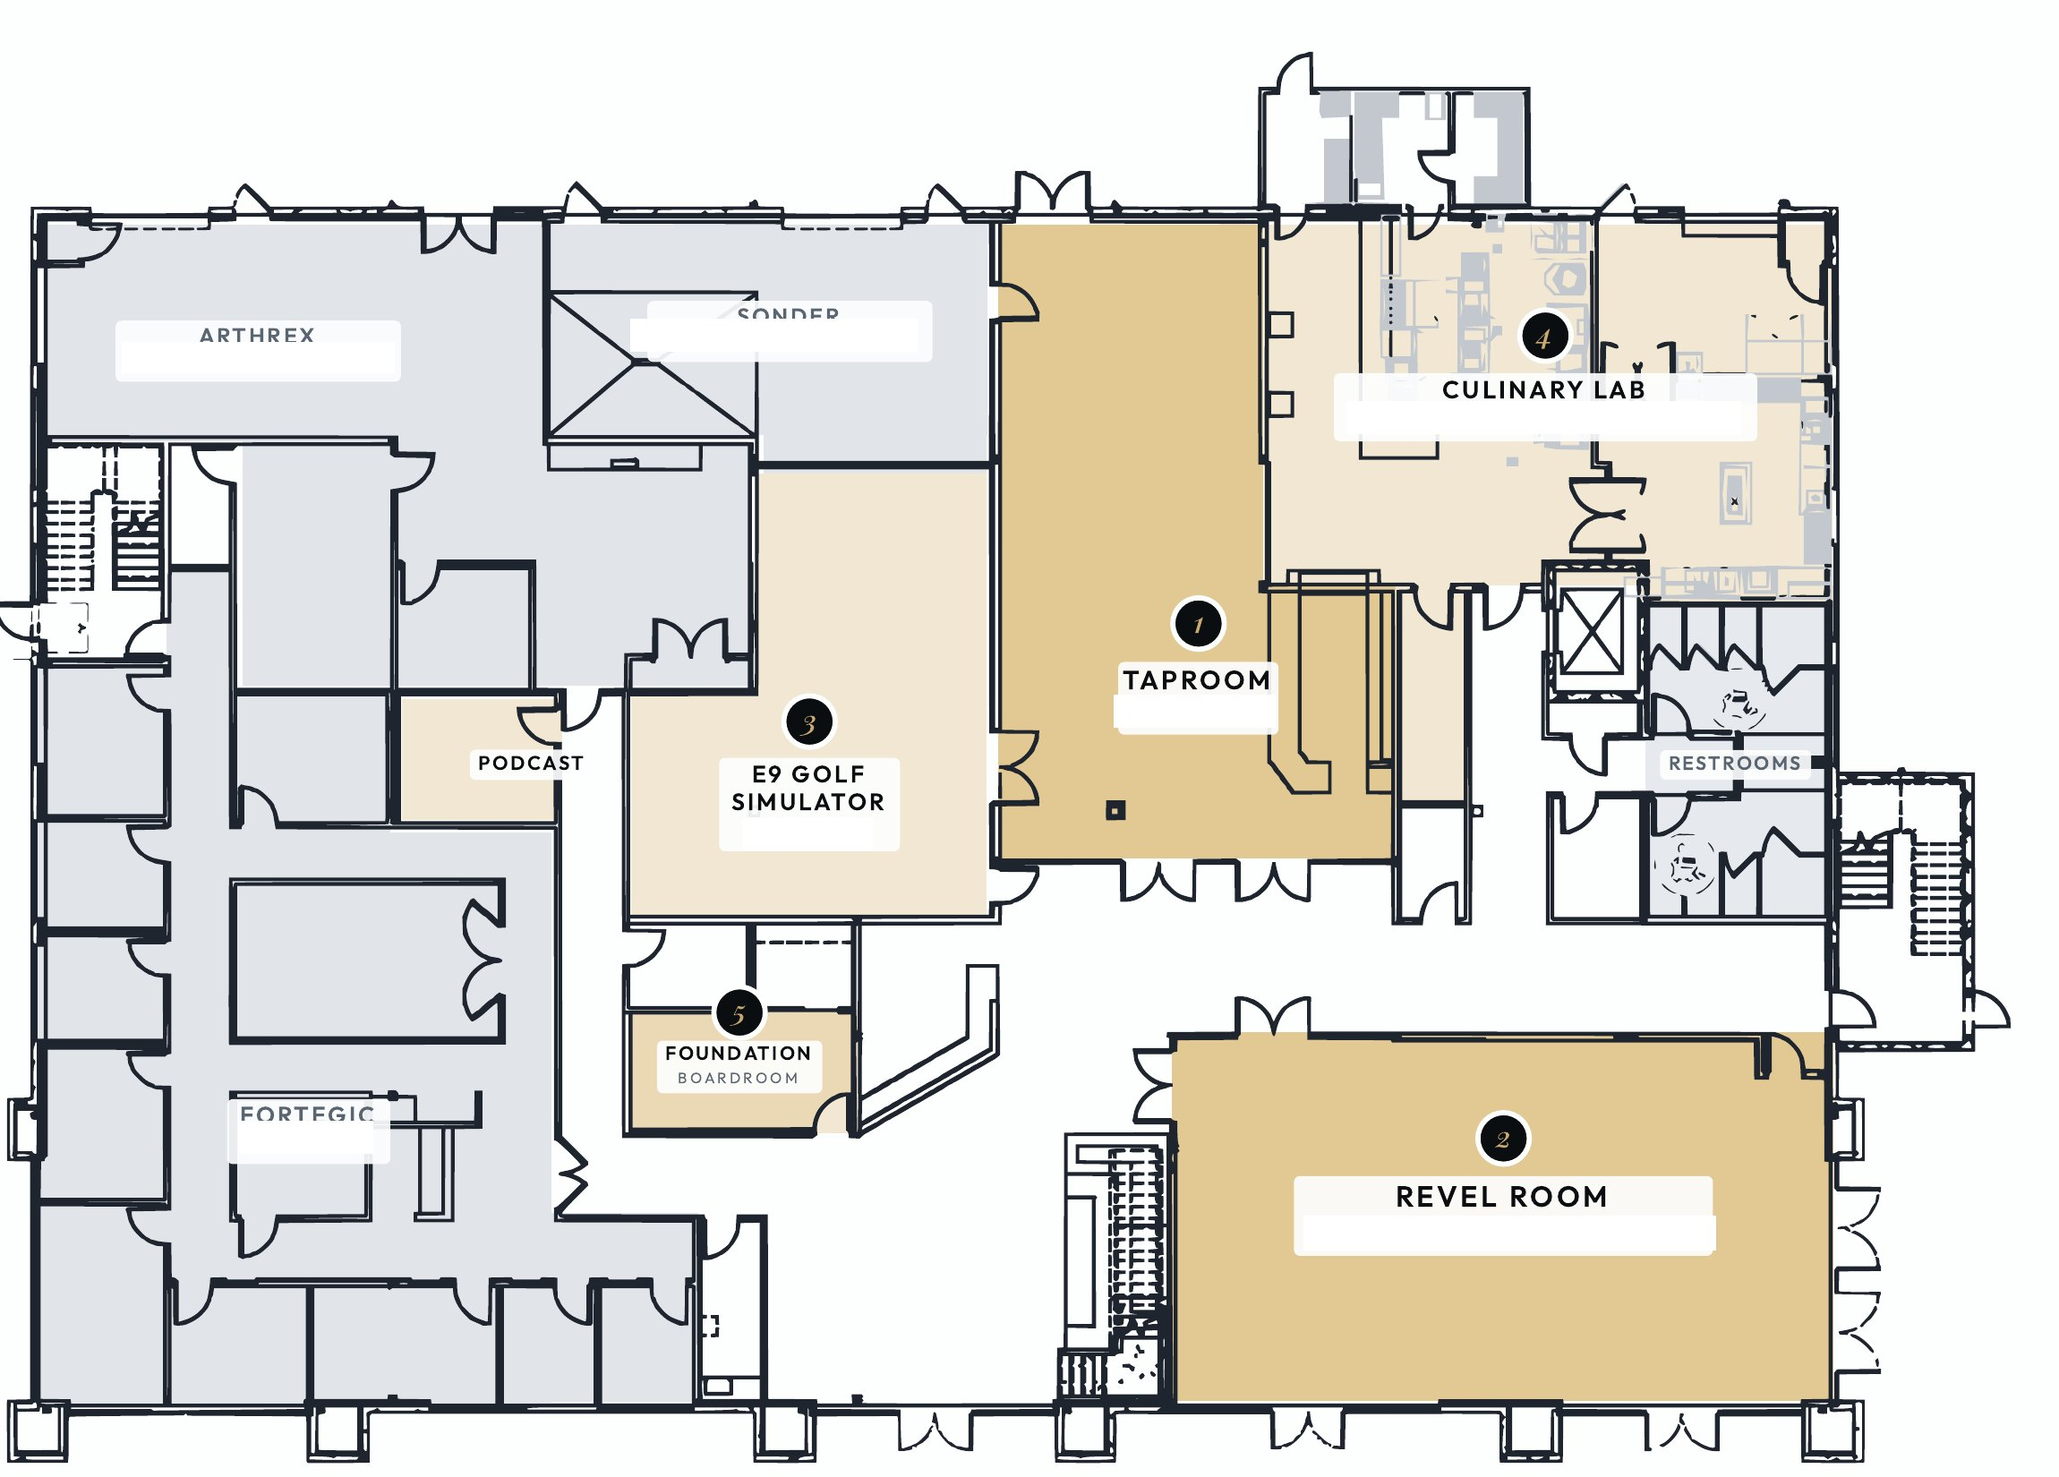
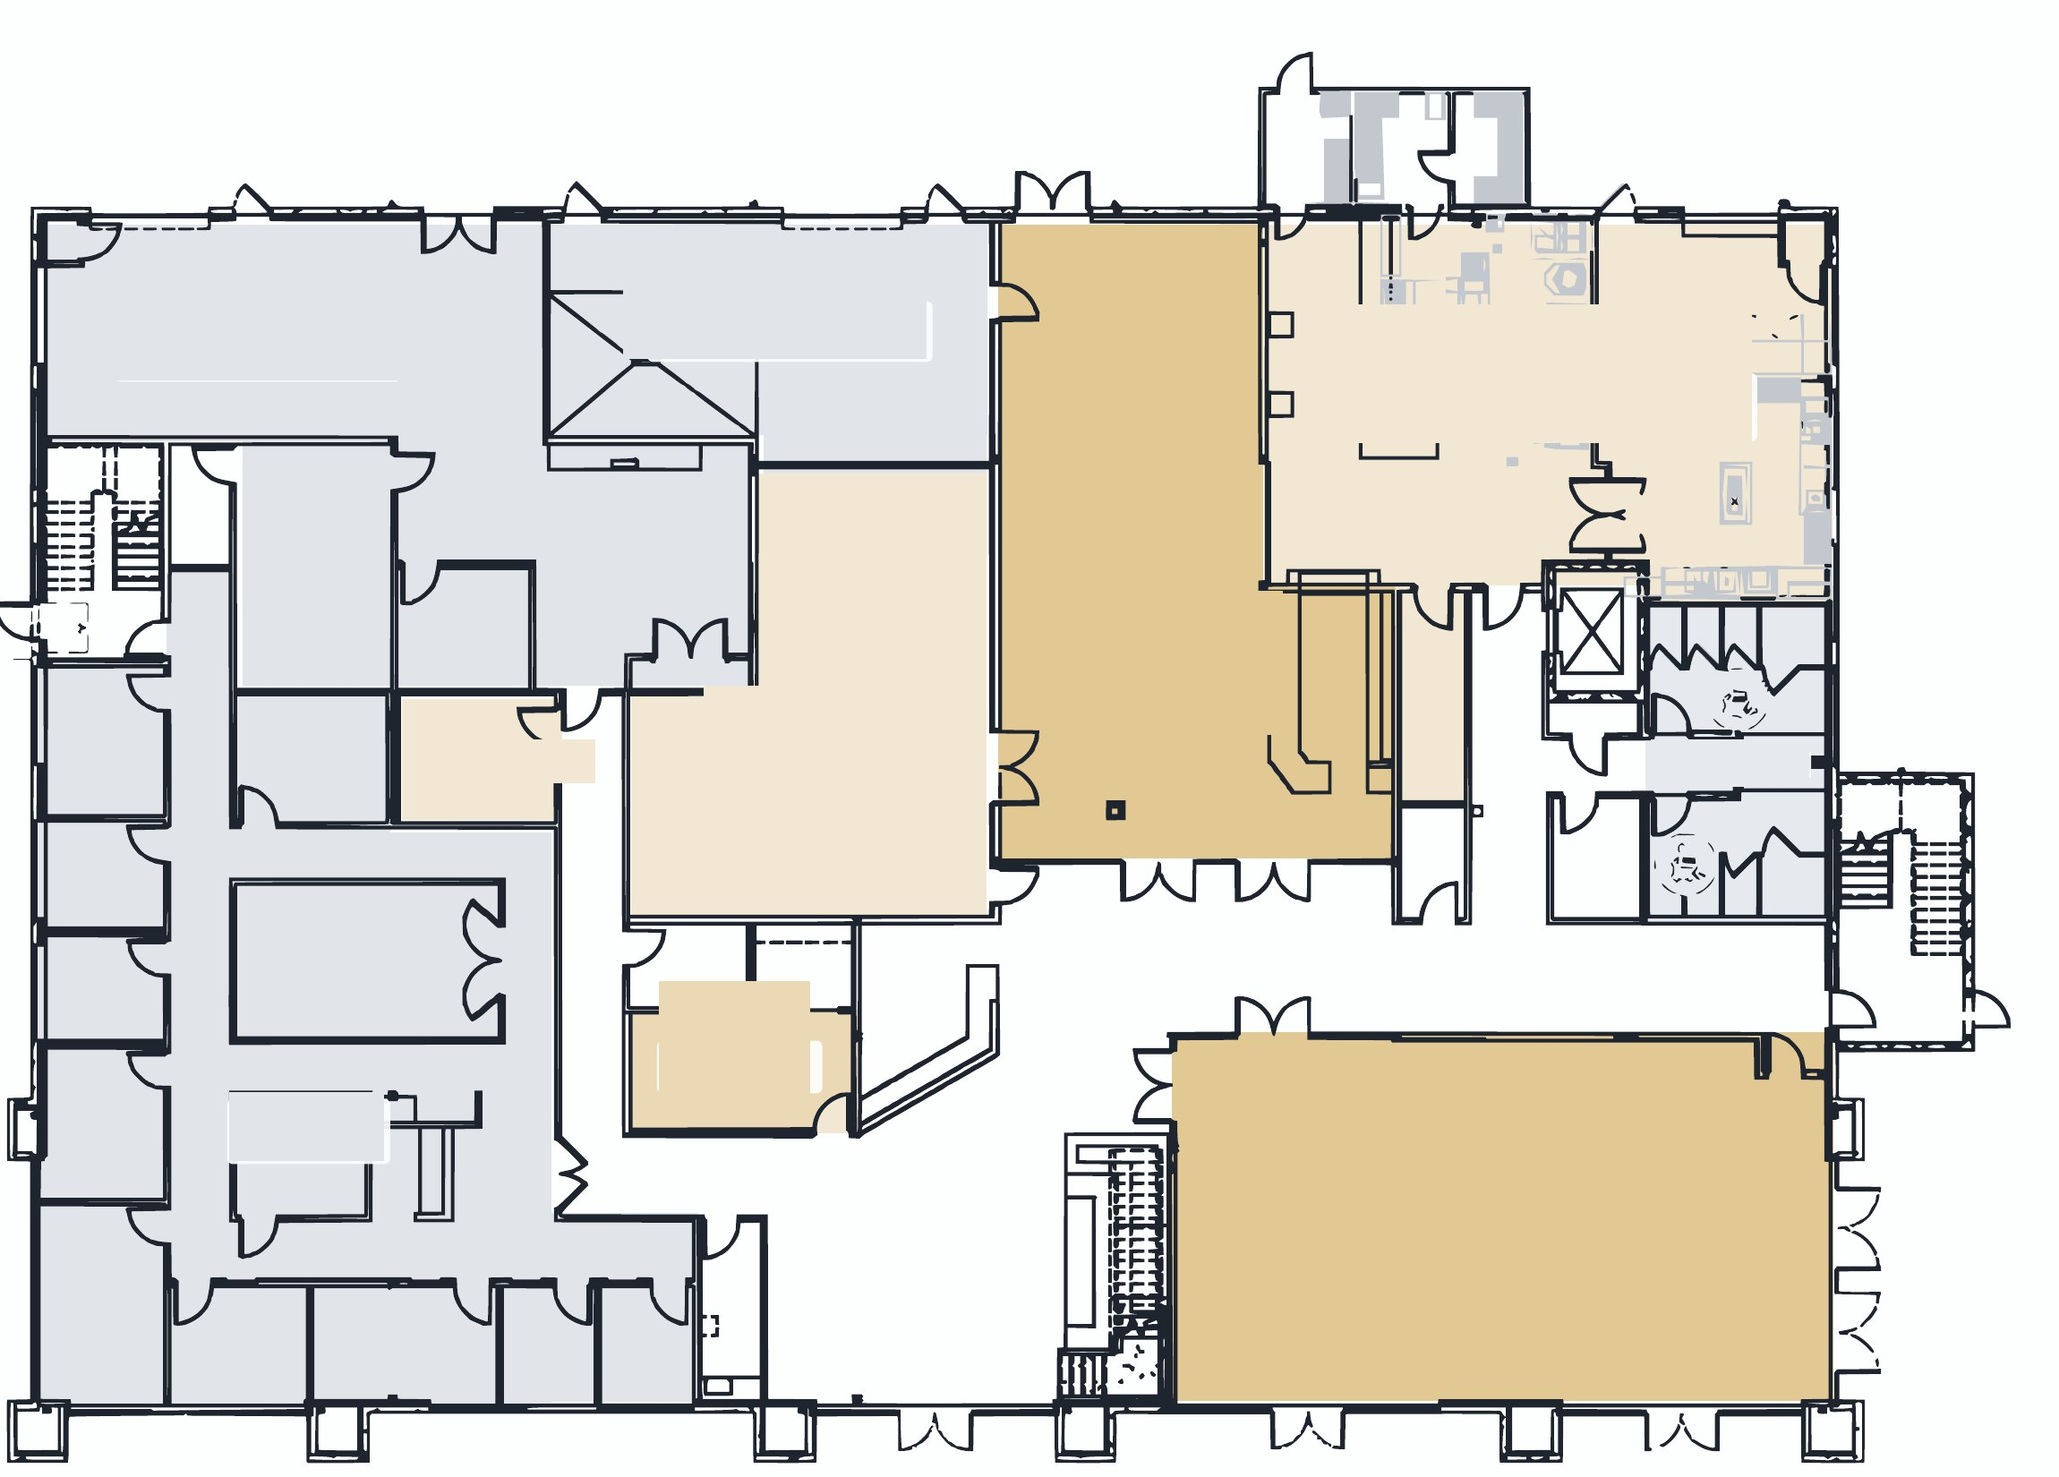
Explore page: clean plans with typographic labels (bundle rev 6)
Claude-Session: https://claude.ai/code/session_01WQH7hqD1qt1mryuk6DfRhT

diff --git a/explore/index.html b/explore/index.html
@@ -162,6 +162,9 @@ html{font-size:17px.footer .container{max-width:1600px;padding:0 48px}.footer-gr
 .xp-map svg{display:block;width:100%;height:auto}
 .xp-map svg[hidden]{display:none!important}
 .xp-hint{position:absolute;top:20px;left:22px;font-size:.68rem;letter-spacing:.14em;text-transform:uppercase;color:#8a93a0;background:rgba(255,255,255,.88);padding:5px 10px;border-radius:6px;pointer-events:none}
+.xp-lab{pointer-events:none;font-family:'Outfit',sans-serif;text-transform:uppercase}
+.xp-lab text{text-anchor:middle;font-weight:600;letter-spacing:.18em;fill:#2A3240}
+.xp-lab text.aux{fill:#8A939E;font-weight:500}
 .xp-room{fill:rgba(201,169,110,0);stroke:rgba(176,140,74,0);stroke-width:5;cursor:pointer;transition:fill .18s,stroke .18s}
 .xp-room:hover{fill:rgba(201,169,110,.32);stroke:rgba(176,140,74,.9)}
 .xp-room.sel{fill:rgba(201,169,110,.42);stroke:#B08C4A;stroke-width:6}
@@ -171,9 +174,10 @@ html{font-size:17px.footer .container{max-width:1600px;padding:0 48px}.footer-gr
 .xp-media img,.xp-media video{display:block;width:100%;height:100%;object-fit:cover;max-width:100%}
 .xp-card .xp-suite{font-size:.75rem;letter-spacing:.18em;text-transform:uppercase;color:var(--gold-dark,#B08C4A);font-weight:600;margin:20px 24px 8px}
 .xp-card h3{font-family:'Playfair Display',serif;font-size:1.8rem;font-weight:600;margin:0 24px 14px}
-.xp-chips{display:flex;flex-wrap:wrap;gap:8px;margin:0 24px 16px}
-.xp-chip{font-size:.88rem;font-weight:500;padding:7px 13px;border-radius:999px;border:1px solid var(--cloud,#E8EAED);color:var(--charcoal,#151A20)}
-.xp-chip.k{border-color:var(--gold,#C9A96E);background:rgba(201,169,110,.12);color:var(--gold-dark,#B08C4A);font-weight:600}
+.xp-details{margin:0 24px 18px;border-top:1px solid var(--cloud,#E8EAED)}
+.xp-row{display:grid;grid-template-columns:96px 1fr;gap:14px;padding:10px 0;border-bottom:1px solid var(--cloud,#E8EAED)}
+.xp-row dt{font-size:.68rem;letter-spacing:.14em;text-transform:uppercase;color:var(--gold-dark,#B08C4A);font-weight:700;margin:0;padding-top:2px}
+.xp-row dd{font-size:.95rem;color:var(--charcoal,#151A20);margin:0;line-height:1.5}
 .xp-desc{color:var(--ash,#5A6572);line-height:1.7;margin:0 24px 20px;font-size:1.02rem}
 .xp-card .btn{margin:0 24px}
 @media(max-width:768px){.xp-fbtn{font-size:16px}}
@@ -231,9 +235,22 @@ html{font-size:17px.footer .container{max-width:1600px;padding:0 48px}.footer-gr
       <image href="../images/map-floor1.webp" width="2300" height="1650"/>
         <polygon class="xp-room" data-id="taproom" points="1096,236 1400,236 1400,630 1576,630 1576,956 1096,956"><title>The Taproom</title></polygon>
         <polygon class="xp-room" data-id="culinary" points="1410,224 2036,224 2036,680 1720,680 1720,624 1410,624"><title>Culinary Lab</title></polygon>
-        <polygon class="xp-room" data-id="e9" points="696,520 1106,520 1106,1024 696,1024"><title>Emergency 9</title></polygon>
+        <polygon class="xp-room" data-id="e9" points="696,670 1106,670 1106,1024 696,1024"><title>Emergency 9</title></polygon>
         <polygon class="xp-room" data-id="foundation" points="696,1040 956,1040 956,1280 696,1280"><title>Foundation Boardroom</title></polygon>
         <polygon class="xp-room" data-id="revel" points="1310,1156 2040,1156 2040,1576 1310,1576"><title>Revel Room</title></polygon>
+    <g class="xp-lab" aria-hidden="true">
+<text x="1330" y="780" font-size="34">The Taproom</text>
+<text x="1676" y="1372" font-size="34">Revel Room</text>
+<text x="900" y="880" font-size="32">E9 Golf Simulator</text>
+<text x="1724" y="442" font-size="32">Culinary Lab</text>
+<text x="826" y="1156" font-size="25">Foundation</text>
+<text x="826" y="1196" font-size="19">Boardroom</text>
+<text x="286" y="392" font-size="23" class="aux">Arthrex</text>
+<text x="880" y="364" font-size="23" class="aux">Sonder</text>
+<text x="340" y="1262" font-size="23" class="aux">Fortegic</text>
+<text x="592" y="854" font-size="17" class="aux">Podcast</text>
+<text x="1932" y="856" font-size="17" class="aux">Restrooms</text>
+</g>
     </svg>
     <svg id="xpSvg2" viewBox="0 0 2300 1500" role="img" aria-label="Second floor plan of Revelance" hidden>
       <image href="../images/map-floor2.webp" width="2300" height="1500"/>
@@ -242,13 +259,26 @@ html{font-size:17px.footer .container{max-width:1600px;padding:0 48px}.footer-gr
         <polygon class="xp-room" data-id="horizon" points="456,864 664,864 664,1036 456,1036"><title>Horizon Boardroom</title></polygon>
         <polygon class="xp-room" data-id="overlook" points="1016,486 1226,486 1226,676 1016,676"><title>Overlook Boardroom</title></polygon>
         <polygon class="xp-room" data-id="csuite" points="1430,490 1660,490 1660,860 1430,860"><title>C-Suite Lounge</title></polygon>
+    <g class="xp-lab" aria-hidden="true">
+<text x="510" y="1186" font-size="34">Co-Revel</text>
+<text x="1546" y="662" font-size="26">C-Suite</text>
+<text x="1546" y="700" font-size="19">Lounge</text>
+<text x="170" y="186" font-size="22">Cornerstone</text>
+<text x="170" y="222" font-size="17">Boardroom</text>
+<text x="560" y="940" font-size="22">Horizon</text>
+<text x="560" y="974" font-size="17">Boardroom</text>
+<text x="1120" y="576" font-size="22">Overlook</text>
+<text x="1120" y="610" font-size="17">Boardroom</text>
+<text x="1484" y="306" font-size="23" class="aux">Arthrex</text>
+<text x="1986" y="684" font-size="17" class="aux">Restrooms</text>
+</g>
     </svg>
   </div>
   <aside class="xp-card" aria-live="polite">
     <div class="xp-media"><img id="xpPhoto" src="../images/revel-banquet-sunset.webp" alt="Banquet setup in the Revel Room at sunset" width="640" height="400"></div>
     <p class="xp-suite" id="xpSuite">Event Center</p>
     <h3 id="xpName">Revel Room</h3>
-    <div class="xp-chips" id="xpChips"></div>
+    <dl class="xp-details" id="xpDetails"><div class="xp-row"><dt>Capacity</dt><dd>125 banquet · 225 reception</dd></div><div class="xp-row"><dt>Features</dt><dd>25-ft ceilings · 12×10 ft video wall</dd></div><div class="xp-row"><dt>Best for</dt><dd>Weddings, galas, corporate events</dd></div><div class="xp-row"><dt>Booking</dt><dd>Start with the event wizard</dd></div></dl>
     <p class="xp-desc" id="xpDesc"></p>
     <a class="btn btn-gold" id="xpLink" href="../revel-room/">Explore the Space</a>
   </aside>
@@ -266,7 +296,7 @@ html{font-size:17px.footer .container{max-width:1600px;padding:0 48px}.footer-gr
 </section>
 
 <script>
-var XP_ROOMS = {"revel": {"floor": 1, "name": "Revel Room", "label": "Event Center", "stats": ["125 banquet", "225 combined reception", "25-ft ceilings", "12x10 ft video wall"], "desc": "The event center. Weddings, galas, corporate events - with a built-in stage wall for presentations and celebrations alike.", "url": "../revel-room/", "img": "../images/revel-banquet-sunset.webp", "alt": "Banquet setup in the Revel Room at sunset", "video": null}, "taproom": {"floor": 1, "name": "The Taproom", "label": "First Floor", "stats": ["50 standing", "Craft beer by Sonder Brewing", "Bartender included with events"], "desc": "Craft beer next door to everything. Cocktail hours flow straight from here into the Revel Room.", "url": "../taphouse/", "img": "../images/taphouse-overlook.webp", "alt": "Looking down into a full Taproom from the overlook", "video": null}, "e9": {"floor": 1, "name": "Emergency 9", "label": "Golf Simulator", "stats": ["25-40 people", "ProTee VX simulator", "10x16 ft impact screen"], "desc": "Golf simulator lounge for practice, play, and client entertainment.", "url": "../e9/", "img": "../images/e9-golf-simulator.webp", "alt": "The Emergency 9 golf simulator", "video": null}, "culinary": {"floor": 1, "name": "Culinary Lab", "label": "Zink Foodservice", "stats": ["400 sq ft", "Commercial kitchen", "USDA-compliant"], "desc": "Official Zink Culinary Center - classes, tastings, and the kitchen behind catered events.", "url": "../culinary-lab/", "img": "../images/culinary-lab.webp", "alt": "The Culinary Lab commercial kitchen", "video": null}, "foundation": {"floor": 1, "name": "Foundation Boardroom", "label": "First Floor", "stats": ["Seats 10", "Bookable in the Revelance App"], "desc": "The first-floor meeting room - steps from the Taproom and the event spaces.", "url": "../boardrooms/", "img": "../images/foundation-boardroom.webp", "alt": "The Foundation Boardroom", "video": null}, "corevel": {"floor": 2, "name": "Co-Revel Coworking", "label": "Members' Floor", "stats": ["Dedicated 2nd floor", "Open seating, dedicated desks, private offices", "Never displaced by events"], "desc": "The members' floor - set apart from events below, so your workday never gets bumped by a banquet.", "url": "../coworking/", "img": "../images/cowork-community.webp", "alt": "The Co-Revel coworking floor", "video": null}, "csuite": {"floor": 2, "name": "C-Suite Lounge", "label": "Members' Floor", "stats": ["50 personal bourbon lockers", "65\u2033 TV"], "desc": "The private lounge. Your bottle, your locker, your client's favorite pour already waiting.", "url": "../c-suite/", "img": "../images/csuite-lifestyle-lounge.webp", "alt": "The C-Suite Lounge", "video": null}, "cornerstone": {"floor": 2, "name": "Cornerstone Boardroom", "label": "Second Floor", "stats": ["Dedicated Desk members & above"], "desc": "The members-only boardroom, reserved for Dedicated Desk tiers and up.", "url": "../boardrooms/", "img": "../images/cornerstone-boardroom.webp", "alt": "The Cornerstone Boardroom", "video": null}, "horizon": {"floor": 2, "name": "Horizon Boardroom", "label": "Second Floor", "stats": ["Seats 12", "Executive boardroom"], "desc": "The executive boardroom - the big table for the big meeting.", "url": "../boardrooms/", "img": "../images/horizon-boardroom.webp", "alt": "The Horizon Boardroom", "video": null}, "overlook": {"floor": 2, "name": "Overlook Boardroom", "label": "Second Floor", "stats": ["Seats 6", "Panoramic views"], "desc": "The small room with the big windows - built for focused sessions.", "url": "../boardrooms/", "img": "../images/overlook-boardroom.webp", "alt": "The Overlook Boardroom", "video": null}};
+var XP_ROOMS = {"revel": {"floor": 1, "name": "Revel Room", "label": "Event Center", "desc": "The event center. Weddings, galas, corporate events - with a built-in stage wall for presentations and celebrations alike.", "url": "../revel-room/", "img": "../images/revel-banquet-sunset.webp", "alt": "Banquet setup in the Revel Room at sunset", "video": null, "rows": [["Capacity", "125 banquet \u00b7 225 reception"], ["Features", "25-ft ceilings \u00b7 12\u00d710 ft video wall"], ["Best for", "Weddings, galas, corporate events"], ["Booking", "Start with the event wizard"]]}, "taproom": {"floor": 1, "name": "The Taproom", "label": "First Floor", "desc": "Craft beer next door to everything. Cocktail hours flow straight from here into the Revel Room.", "url": "../taphouse/", "img": "../images/taphouse-overlook.webp", "alt": "Looking down into a full Taproom from the overlook", "video": null, "rows": [["Capacity", "50 standing"], ["Features", "Craft beer by Sonder Brewing \u00b7 bartender included with events"], ["Best for", "Happy hours, cocktail receptions"], ["Booking", "Book with your event"]]}, "e9": {"floor": 1, "name": "Emergency 9", "label": "Golf Simulator", "desc": "Golf simulator lounge for practice, play, and client entertainment.", "url": "../e9/", "img": "../images/e9-golf-simulator.webp", "alt": "The Emergency 9 golf simulator", "video": null, "rows": [["Capacity", "25\u201340 guests"], ["Features", "ProTee VX simulator \u00b7 10\u00d716 ft impact screen"], ["Best for", "Client entertainment, team events"], ["Booking", "Start with the event wizard"]]}, "culinary": {"floor": 1, "name": "Culinary Lab", "label": "Zink Foodservice", "desc": "Official Zink Culinary Center - classes, tastings, and the kitchen behind catered events.", "url": "../culinary-lab/", "img": "../images/culinary-lab.webp", "alt": "The Culinary Lab commercial kitchen", "video": null, "rows": [["Size", "400 sq ft commercial kitchen"], ["Features", "USDA-compliant \u00b7 official Zink Culinary Center"], ["Best for", "Classes, tastings, catered events"], ["Booking", "Start with the event wizard"]]}, "foundation": {"floor": 1, "name": "Foundation Boardroom", "label": "First Floor", "desc": "The first-floor meeting room - steps from the Taproom and the event spaces.", "url": "../boardrooms/", "img": "../images/foundation-boardroom.webp", "alt": "The Foundation Boardroom", "video": null, "rows": [["Capacity", "Seats 10"], ["Features", "First-floor meeting room"], ["Best for", "Meetings, workshops"], ["Booking", "Bookable in the Revelance App"]]}, "corevel": {"floor": 2, "name": "Co-Revel Coworking", "label": "Members' Floor", "desc": "The members' floor - set apart from events below, so your workday never gets bumped by a banquet.", "url": "../coworking/", "img": "../images/cowork-community.webp", "alt": "The Co-Revel coworking floor", "video": null, "rows": [["Floor", "Dedicated 2nd floor \u00b7 never displaced by events"], ["Features", "Open seating, dedicated desks, private offices"], ["Best for", "Daily work, teams, day passes"], ["Booking", "Included with membership"]]}, "csuite": {"floor": 2, "name": "C-Suite Lounge", "label": "Members' Floor", "desc": "The private lounge. Your bottle, your locker, your client's favorite pour already waiting.", "url": "../c-suite/", "img": "../images/csuite-lifestyle-lounge.webp", "alt": "The C-Suite Lounge", "video": null, "rows": [["Features", "50 personal bourbon lockers \u00b7 65\u2033 TV"], ["Best for", "Client entertainment, unwinding after hours"], ["Booking", "Members\u2019 lounge"]]}, "cornerstone": {"floor": 2, "name": "Cornerstone Boardroom", "label": "Second Floor", "desc": "The members-only boardroom, reserved for Dedicated Desk tiers and up.", "url": "../boardrooms/", "img": "../images/cornerstone-boardroom.webp", "alt": "The Cornerstone Boardroom", "video": null, "rows": [["Access", "Dedicated Desk members & above"], ["Best for", "Team meetings"], ["Booking", "Bookable in the Revelance App"]]}, "horizon": {"floor": 2, "name": "Horizon Boardroom", "label": "Second Floor", "desc": "The executive boardroom - the big table for the big meeting.", "url": "../boardrooms/", "img": "../images/horizon-boardroom.webp", "alt": "The Horizon Boardroom", "video": null, "rows": [["Capacity", "Seats 12"], ["Features", "Executive boardroom"], ["Best for", "Board meetings, presentations"], ["Booking", "Bookable in the Revelance App"]]}, "overlook": {"floor": 2, "name": "Overlook Boardroom", "label": "Second Floor", "desc": "The small room with the big windows - built for focused sessions.", "url": "../boardrooms/", "img": "../images/overlook-boardroom.webp", "alt": "The Overlook Boardroom", "video": null, "rows": [["Capacity", "Seats 6"], ["Features", "Panoramic views"], ["Best for", "Focused sessions, 1-on-1s"], ["Booking", "Bookable in the Revelance App"]]}};
 function xpPick(id){
   var r = XP_ROOMS[id];
   document.querySelectorAll('.xp-room').forEach(function(p){ p.classList.toggle('sel', p.dataset.id === id); });
@@ -275,8 +305,8 @@ function xpPick(id){
   document.getElementById('xpName').textContent = r.name;
   document.getElementById('xpDesc').textContent = r.desc;
   document.getElementById('xpLink').href = r.url;
-  var ch = document.getElementById('xpChips'); ch.innerHTML = '';
-  r.stats.forEach(function(s,i){ var c = document.createElement('span'); c.className = 'xp-chip' + (i===0 ? ' k' : ''); c.textContent = s; ch.appendChild(c); });
+  var dl = document.getElementById('xpDetails'); dl.innerHTML = '';
+  r.rows.forEach(function(row){ var d = document.createElement('div'); d.className = 'xp-row'; var dt = document.createElement('dt'); dt.textContent = row[0]; var dd = document.createElement('dd'); dd.textContent = row[1]; d.appendChild(dt); d.appendChild(dd); dl.appendChild(d); });
   if (typeof gtag !== 'undefined') gtag('event','explore_space_view',{event_category:'explore_map',event_label:id});
 }
 function xpFloor(n){
